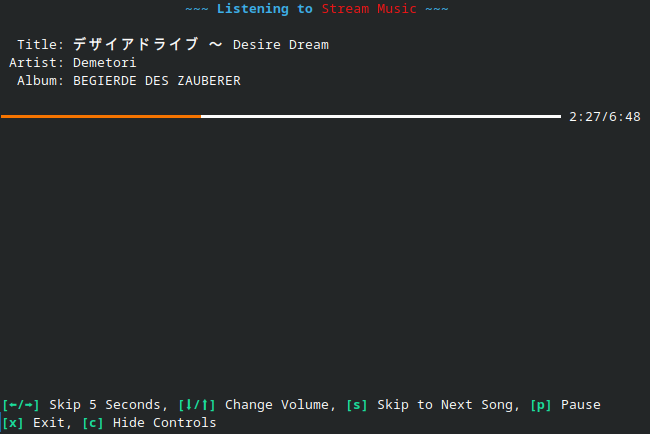
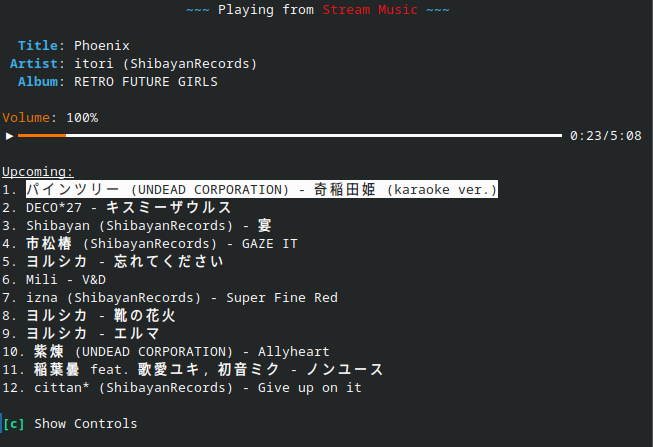
Fix #4 and #6, update player image to reflect changes

diff --git a/mupl/menu/player.py b/mupl/menu/player.py
@@ -13,26 +13,31 @@ from mupl.logger import logger
 from mupl.playlist import Playlist
 from mupl.song import SongData
 from mupl.ui import KeyControls, KeyControl, Menu, MenuManager
-from mupl.util import format_duration
+from mupl.util import format_duration, shuffle_slice
 
 
 class PlayerMenu(Menu):
     def __init__(self, manager: MenuManager, playlist: Playlist):
         super().__init__(manager, f"Playing from [red]{playlist.name}[/red]", KeyControls([
             # KeyControl(":left_arrow:/:right_arrow:", "Skip 5 Seconds"),
-            KeyControl(":down_arrow:/:up_arrow:", "Change Volume"),
-            KeyControl("s", "Skip to Next Song"),
-            KeyControl("p", "Pause"),
+            KeyControl("-/+", "Change Volume"),
+            KeyControl("s", "Shuffle"),
+            KeyControl("Space", "Pause"),
+            KeyControl(":down_arrow:/:up_arrow:", "Change Selection"),
+            KeyControl("Enter", "Skip"),
             KeyControl("x", "Exit"),
             KeyControl("c", "Hide Controls")
         ]))
         self.playlist = playlist
         self.sink: AudioSink | None = None
         self.current_song: SongData | None = None
-        self.remaining_songs: list[int] = []
+        self.songs: list[int] = []
+        self.song_index = -1
         self.volume = manager.mupl.config.volume
         self.paused = False
         self._position = 0
+        self.selected = 0
+        self.page_size = 10
         self.shutdown = False
         self.playback_thread = Thread(target=self.playback_loop, name="PlaybackLoopThread")
         self.playback_thread.start()
@@ -41,17 +46,23 @@ class PlayerMenu(Menu):
     def is_playing(self):
         return self.sink is not None and self.sink.is_playing
 
+    def get_song_display_range(self) -> tuple[int, int]:
+        return self.selected, min(self.selected + self.page_size, len(self.songs) - 1)
+
     def reload(self):
         self.paused = False
         if self.is_playing():
             self.sink.stop()
             self.sink = None
-        self.remaining_songs.clear()
+        self.songs.clear()
         for i in range(len(self.playlist.songs)):
-            self.remaining_songs.append(i)
+            self.songs.append(i)
 
     def shuffle(self):
-        random.shuffle(self.remaining_songs)
+        if self.is_playing() or self.paused:
+            shuffle_slice(self.songs, start=self.song_index + 1)
+        else:
+            random.shuffle(self.songs)
 
     def toggle_paused(self):
         self.paused = not self.paused
@@ -65,8 +76,11 @@ class PlayerMenu(Menu):
     def _play_next_song(self):
         self.stop_current_song()
         self.paused = False
-        if not self.shutdown and len(self.remaining_songs) > 0:
-            self.current_song = self.playlist.songs[self.remaining_songs.pop(0)]
+        if not self.shutdown and self.song_index < len(self.songs) - 1:
+            self.song_index += 1
+            if self.selected == self.song_index:
+                self.selected += 1
+            self.current_song = self.playlist.songs[self.songs[self.song_index]]
             self.sink = AudioSink().load_audio(str(self.current_song.path))
             self.sink.set_volume(self.volume / 100)
             self.sink.play()
@@ -110,17 +124,26 @@ class PlayerMenu(Menu):
 
     def handle_key(self, ch: str):
         if ch == "s":
+            self.shuffle()
+        elif ch == readchar.key.ENTER:
+            self.song_index = self.selected - 1
             self.stop_current_song()
-        elif ch == readchar.key.UP:
+        elif ch == "=" or ch == "+":
             if self.sink is not None:
                 self.volume = min(self.volume + 5, 100)
                 self.manager.mupl.config.volume = self.volume
                 self.manager.mupl.config.save()
-        elif ch == readchar.key.DOWN:
+        elif ch == "-":
             if self.sink is not None:
                 self.volume = max(self.volume - 5, 0)
                 self.manager.mupl.config.volume = self.volume
                 self.manager.mupl.config.save()
+        elif ch == readchar.key.UP:
+            self.selected = max(self.selected - 1, 0)
+        elif ch == readchar.key.DOWN:
+            self.selected = min(self.selected + 1, len(self.songs) - 1)
+        elif ch == readchar.key.SPACE:
+            self.toggle_paused()
         elif ch == readchar.key.PAGE_UP:
             if self.sink is not None:
                 self.volume = 100
@@ -150,13 +173,21 @@ class PlayerMenu(Menu):
         self.playback_thread.join()
 
     def render(self, console: Console, options: ConsoleOptions):
+        self.page_size = options.max_height - 12
         yield Text()
         if self.current_song is not None:
             meta = self.current_song.meta
-            yield console.render_str(f"  Title: {meta.title}")
-            yield console.render_str(f" Artist: {meta.get_comp_artist()}")
-            yield console.render_str(f"  Album: {meta.album}")
-            yield console.render_str(f"\nVolume: {self.volume}% ")
+            titletxt = console.render_str(f"  [blue bold]Title[/blue bold]: {meta.title}", overflow="ellipsis")
+            titletxt.no_wrap = True
+            yield titletxt
+            artisttxt = console.render_str(f" [blue bold]Artist[/blue bold]: {meta.get_comp_artist()}",
+                                           overflow="ellipsis")
+            artisttxt.no_wrap = True
+            yield artisttxt
+            albumtxt = console.render_str(f"  [blue bold]Album[/blue bold]: {meta.album}", overflow="ellipsis")
+            albumtxt.no_wrap = True
+            yield albumtxt
+            yield console.render_str(f"\n[yellow]Volume[/yellow]: {self.volume}% ")
             total_time = meta.duration
             curr_time = self._position
             time_right = f"{format_duration(int(curr_time))}/{format_duration(int(total_time))}"
@@ -164,5 +195,17 @@ class PlayerMenu(Menu):
             bar_fill = min(int((curr_time / total_time) * bar_width) + 1, bar_width)
             yield console.render_str(
                 f"{':pause_button:' if self.paused else ':play_button:'} [yellow]{"━" * bar_fill}[/yellow]{"━" * (bar_width - bar_fill)} {time_right}")
+            yield console.render_str("\n[u]Upcoming:[/u]")
+            for i in range(*self.get_song_display_range()):
+                song = self.playlist.songs[self.songs[i]]
+                line = str(i - self.song_index) + ". "
+                if i == self.selected:
+                    line += f"[r]"
+                line += f"{song.meta.get_comp_artist()} - {song.meta.title}"
+                if i == self.selected:
+                    line += "[/r]"
+                txt = console.render_str(line, overflow="ellipsis")
+                txt.no_wrap = True
+                yield txt
         else:
             yield console.render_str("[i]Waiting...[/i]")

diff --git a/mupl/util.py b/mupl/util.py
@@ -1,5 +1,6 @@
+import random
 from pathlib import Path
-from typing import Callable
+from typing import Callable, MutableSequence, Any
 
 
 def _find_all_files(directory: Path, max_depth: int, file_filter: Callable[[Path], bool], current_depth: int,
@@ -44,3 +45,17 @@ def truncate(s: str, max_width: int) -> str:
 
 def format_duration(seconds: int) -> str:
     return f"{seconds // 60}:{seconds % 60:02}"
+
+
+def shuffle_slice(seq: MutableSequence[Any], start: int = 0, end: int = -1):
+    """
+    Shuffle a portion of a sequence.
+    :param seq: The sequence to shuffle
+    :param start: The starting index (inclusive), defaults to 0
+    :param end: The ending index (exclusive), defaults to the length of the sequence
+    """
+    if end < 0:
+        end = len(seq)
+    for i in range(start, end - 1):
+        idx = random.randrange(i, end)
+        seq[idx], seq[i] = seq[i], seq[idx]